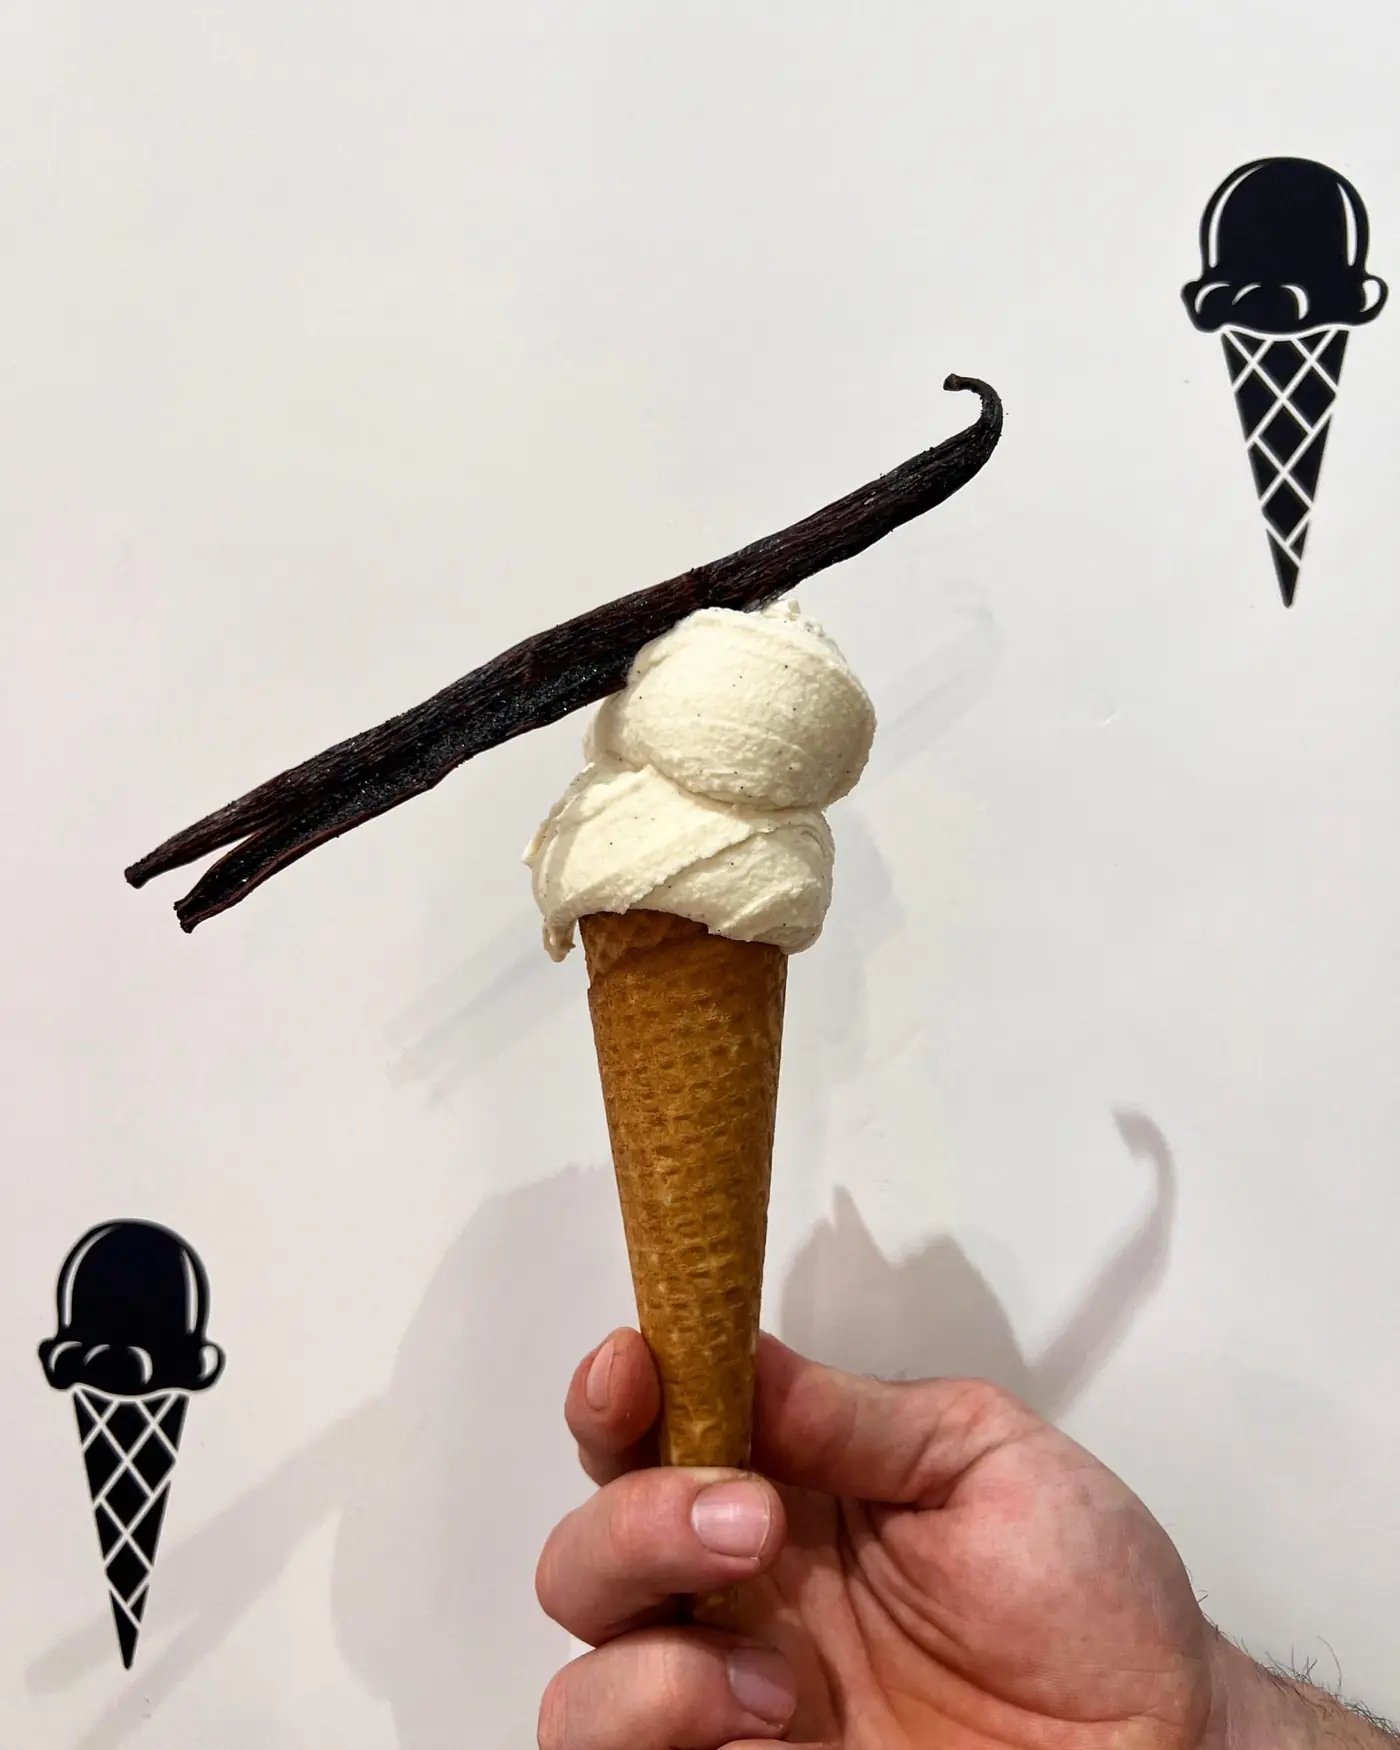
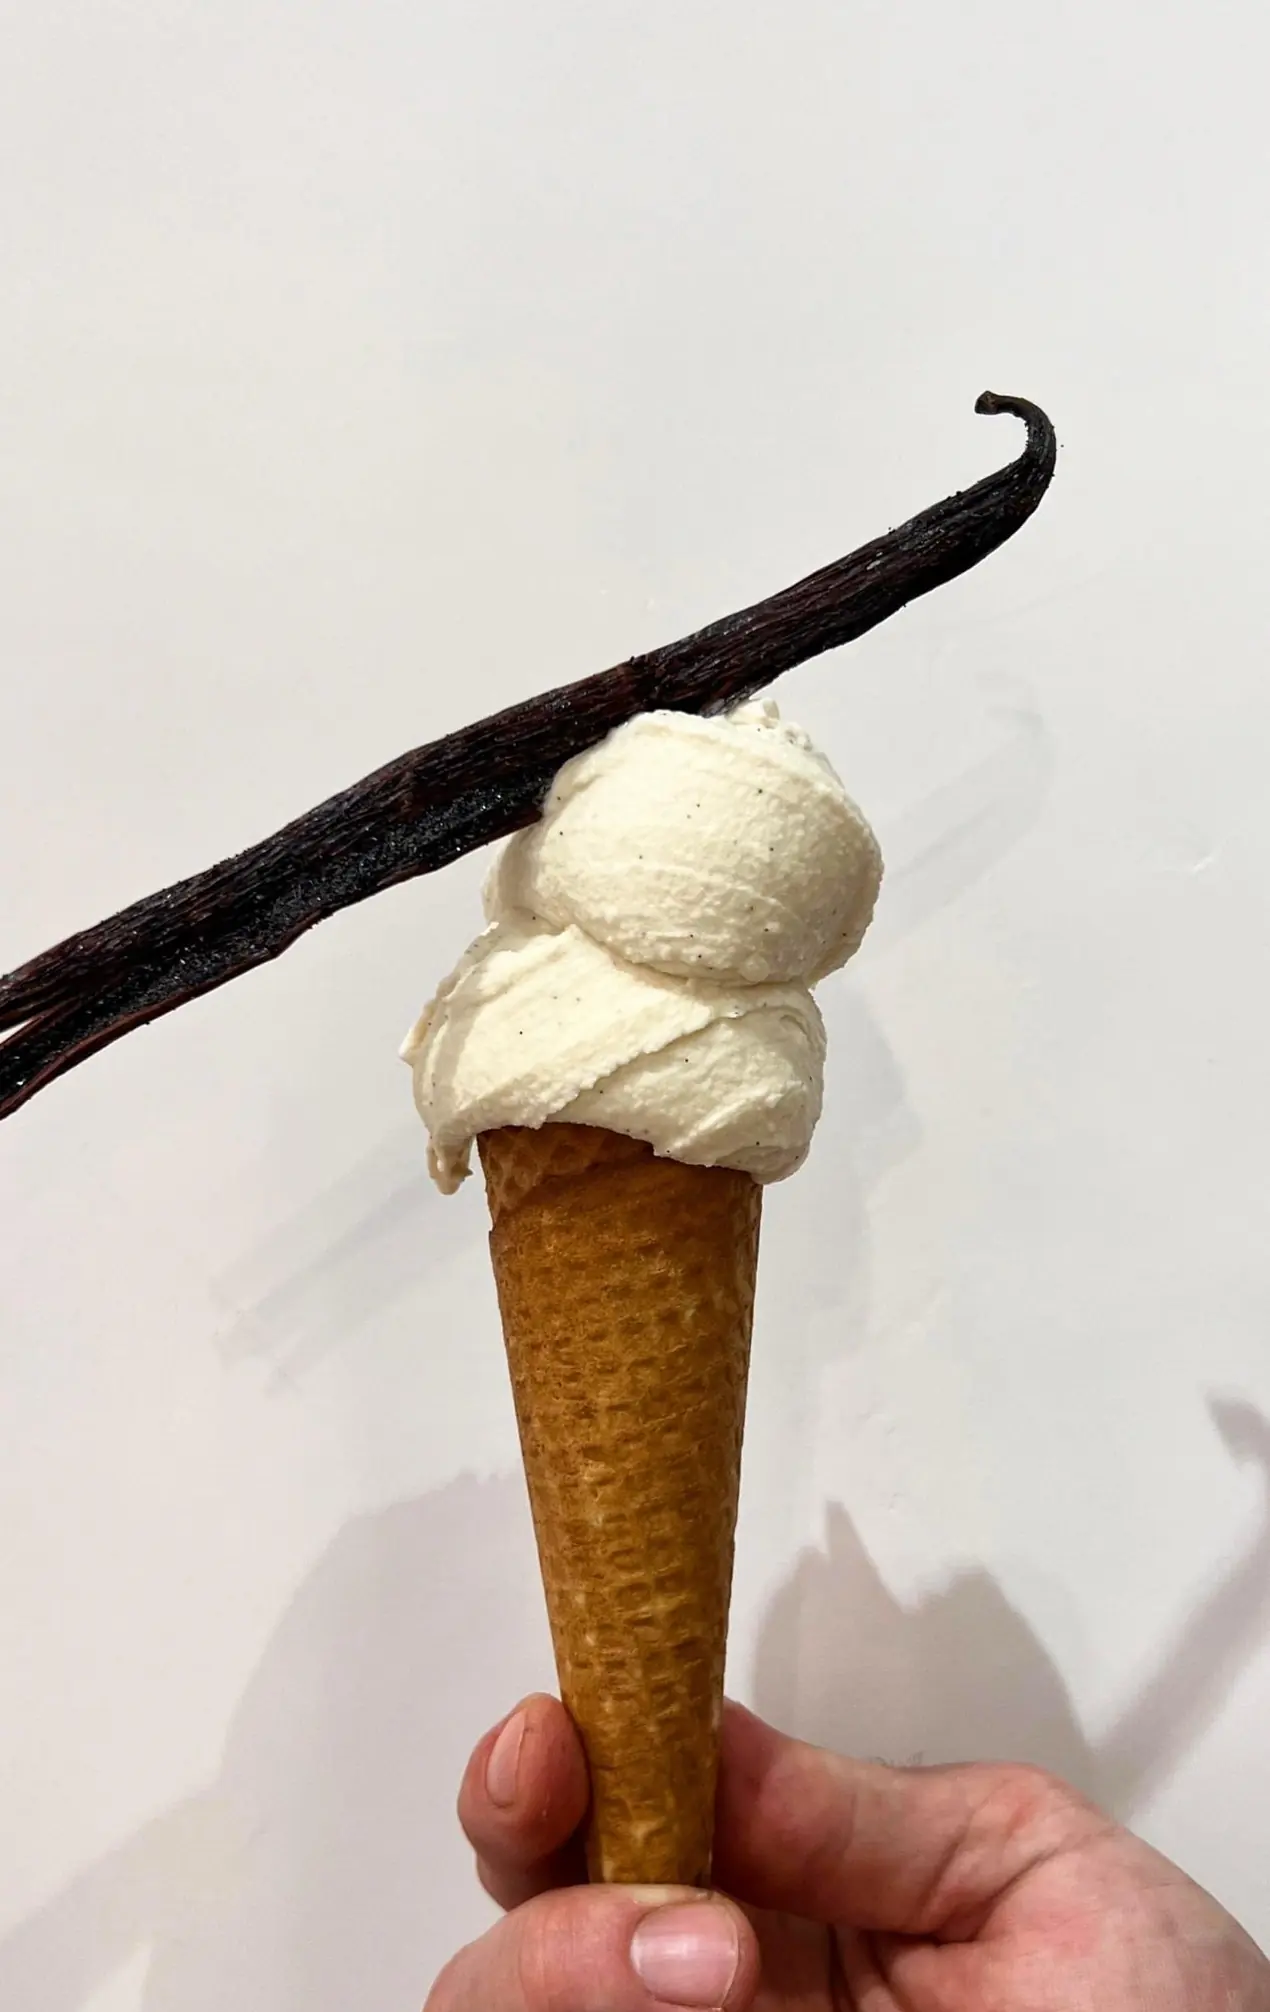
feat: tidy the contact rows, restyle the Bitcoin badge, crop the hero photo and use a white-coat portrait

diff --git a/sablegelato/index.html b/sablegelato/index.html
@@ -87,7 +87,7 @@ body.menu .sheet{clip-path:circle(150% at calc(100% - 38px) 62px); visibility:vi
 .dark .btn.ghost:hover{background:var(--cream); color:var(--ink)}
 
 .arch{position:relative; aspect-ratio:4/5.2; border-radius:999px 999px 6px 6px; overflow:hidden; background:var(--paper-2); isolation:isolate}
-.arch img{width:100%; height:118%; object-fit:cover; object-position:58% 38%; will-change:transform}
+.arch img{width:100%; height:118%; object-fit:cover; object-position:50% 35%; will-change:transform}
 .hero .arch img{animation:settle 2.4s cubic-bezier(.2,.7,.2,1) both}
 @keyframes settle{from{transform:scale(1.12)} to{transform:scale(1)}}
 .hero-art{position:relative; max-width:min(500px, calc((100vh - 170px) * .76)); justify-self:end; width:100%}
@@ -130,6 +130,7 @@ section{position:relative}
 .about .portrait{position:sticky; top:calc(var(--ribbon) + var(--head) + 24px)}
 .frame{overflow:hidden; border-radius:4px; aspect-ratio:3/4; background:var(--paper-2)}
 .frame img{width:100%; height:115%; object-fit:cover; will-change:transform}
+.frame img.top{object-position:50% 0}
 .caption{margin-top:12px; font:500 .7rem/1.4 var(--sans); letter-spacing:.14em; text-transform:uppercase; color:var(--muted)}
 .big-p{font:400 clamp(1.25rem,1.9vw,1.6rem)/1.55 var(--serif)}
 .stats{display:grid; grid-template-columns:repeat(3,1fr); border-top:1px solid var(--ink); margin:40px 0}
@@ -235,7 +236,8 @@ details.wide{margin-top:clamp(28px,4vw,44px)}
 .credit a,.credit-dark a{color:inherit}
 details.on-dark{border-color:rgba(245,240,230,.2); margin-top:8px}
 .logos{list-style:none; padding:0; margin:14px 0 0; display:grid; grid-template-columns:repeat(auto-fill,minmax(110px,1fr)); gap:10px}
-.logos li{background:var(--cream); border-radius:6px; height:74px; display:grid; place-items:center; padding:12px 16px}
+.logos li{background:var(--cream); border-radius:6px; height:74px; display:grid; place-items:center; padding:12px 16px; min-width:0}
+.logos li > *{min-width:0; max-width:100%}
 .logos li.inv{background:#2a2622}
 .logos li > a{display:grid; place-items:center; width:100%; height:100%}
 .logos li:has(a){transition:transform .35s, box-shadow .35s}
@@ -256,10 +258,6 @@ details.on-dark{border-color:rgba(245,240,230,.2); margin-top:8px}
 .press-logos img{max-height:56px}
 .coffee-rail{padding-bottom:clamp(40px,6vw,80px); margin-top:-1px}
 .coffee-rail .rail img{width:clamp(180px,20vw,260px); aspect-ratio:2/3; object-fit:cover; height:auto}
-.ig{display:inline-flex; align-items:center; gap:10px}
-.ig img{width:22px; height:22px; border:0}
-.btc img{height:92px; width:auto}
-.btc-foot{height:46px!important; width:auto; border-radius:6px}
 @media (max-width:760px){.org{grid-template-columns:repeat(3,1fr)} .duo{grid-template-columns:1fr 1fr} .masonry{columns:2; column-gap:8px} .masonry figure{margin-bottom:8px}}
 
 .visit .wrap.map-wrap{display:block; margin-top:clamp(48px,7vw,90px)}
@@ -318,14 +316,24 @@ details.on-dark{border-color:rgba(245,240,230,.2); margin-top:8px}
 .visit .wrap{display:grid; grid-template-columns:1.1fr .9fr; gap:clamp(32px,6vw,96px); align-items:center}
 .visit h2{font-size:clamp(3rem,9vw,7rem); margin-bottom:12px}
 .visit .sub{font:400 clamp(1.3rem,2vw,1.7rem)/1.2 var(--display); text-transform:uppercase; color:var(--gold-soft); margin-bottom:34px}
-.hours{width:100%; border-collapse:collapse; margin-bottom:30px; max-width:460px}
+.hours{width:100%; border-collapse:collapse; margin-bottom:34px; max-width:460px; border-top:1px solid rgba(245,240,230,.2)}
 .hours td{padding:12px 0; border-bottom:1px solid rgba(245,240,230,.2); font:500 .8rem/1 var(--sans); letter-spacing:.14em; text-transform:uppercase}
 .hours td:last-child{text-align:right}
-.info{display:grid; grid-template-columns:auto 1fr; gap:10px 24px; margin-bottom:32px; font-size:1.02rem}
-.info dt{font:500 .7rem/2.1 var(--sans); letter-spacing:.2em; text-transform:uppercase; color:rgba(245,240,230,.6)}
-.info dd{margin:0}
-.info a{text-decoration:none; border-bottom:1px solid rgba(245,240,230,.35)}
-.btc{margin-top:22px}
+.info{max-width:460px; margin-bottom:34px; border-top:1px solid rgba(245,240,230,.2)}
+.info .row{display:grid; grid-template-columns:118px 1fr 18px; align-items:center; gap:12px; padding:16px 0; border-bottom:1px solid rgba(245,240,230,.2); color:inherit; text-decoration:none}
+.info .k{font:500 .7rem/1 var(--sans); letter-spacing:.2em; text-transform:uppercase; color:rgba(245,240,230,.55)}
+.info .v{font-size:1.02rem; line-height:1.4}
+.info .v small{display:block; margin-top:4px; font-size:.86rem; color:rgba(245,240,230,.55)}
+.info .arr{width:18px; height:18px; opacity:.45; transition:transform .35s, opacity .35s}
+.info .link .v{transition:color .35s}
+.info .link:hover .v{color:var(--gold-soft)}
+.info .link:hover .arr{opacity:1; transform:translate(2px,-2px)}
+.info .ig{display:flex; align-items:center; gap:10px}
+.info .ig img{width:20px; height:20px}
+.btc-badge{display:inline-flex; align-items:center; gap:12px; padding:8px 20px 8px 8px; border-radius:99px; border:1px solid rgba(247,147,26,.45); background:linear-gradient(90deg,rgba(247,147,26,.16),rgba(247,147,26,.03)); font:500 .74rem/1 var(--sans); letter-spacing:.2em; text-transform:uppercase; color:var(--cream)}
+.btc-badge img{width:34px; height:34px; filter:drop-shadow(0 2px 8px rgba(247,147,26,.45))}
+.btc-badge.small{padding:5px 14px 5px 5px; gap:9px; font-size:.62rem}
+.btc-badge.small img{width:24px; height:24px}
 @media (max-width:899px){.visit .wrap{grid-template-columns:1fr} .visit .arch{max-width:420px}}
 
 footer{background:var(--dark); color:rgba(245,240,230,.6); padding:50px 0 60px; border-top:1px solid rgba(245,240,230,.12)}
@@ -377,7 +385,7 @@ footer a{text-decoration:none; border-bottom:1px solid rgba(245,240,230,.3)}
       </div>
     </div>
     <div class="hero-art" data-r style="--d:.2s">
-      <div class="arch"><img data-px="0.10" src="img/cone-700.webp" srcset="img/cone-700.webp 700w, img/cone-1400.webp 1400w" sizes="(max-width:899px) 90vw, 40vw" alt="A cone of Sablé gelato with a vanilla pod" width="700" height="875" fetchpriority="high"></div>
+      <div class="arch"><img data-px="0.10" src="img/cone-700.webp" srcset="img/cone-700.webp 700w, img/cone-1400.webp 1270w" sizes="(max-width:899px) 90vw, 40vw" alt="A cone of Sablé gelato with a vanilla pod" width="700" height="1108" fetchpriority="high"></div>
       <a class="seal" href="https://www.gamberorosso.it/ristoranti/scheda-negozio/sable-gelato/" target="_blank" rel="noopener" aria-label="Due Coni Gambero Rosso 2023, 2024, 2025, 2026">
         <svg class="ring" viewBox="0 0 132 132" aria-hidden="true"><defs><path id="circ" d="M66,66 m-52,0 a52,52 0 1,1 104,0 a52,52 0 1,1 -104,0"/></defs><text><textPath href="#circ" textLength="324" lengthAdjust="spacingAndGlyphs">Gambero Rosso · 2023 · 2024 · 2025 · 2026 ·</textPath></text></svg>
         <div class="c">Due<br>Coni</div>
@@ -414,8 +422,8 @@ footer a{text-decoration:none; border-bottom:1px solid rgba(245,240,230,.3)}
 <section class="sec about" id="about">
   <div class="wrap">
     <div class="portrait" data-r>
-      <div class="frame"><img data-px="0.08" src="img/alessandro-700.webp" alt="Alessandro Cesari in his laboratory" loading="lazy" width="700" height="1050"></div>
-      <div class="caption">Alessandro Cesari · Photo: Davide T.</div>
+      <div class="frame"><img class="top" data-px="0.06" src="img/alessandro-white.webp" alt="Alessandro Cesari in his chef's whites" loading="lazy" width="520" height="670"></div>
+      <div class="caption">Alessandro Cesari</div>
     </div>
     <div>
       <div class="label muted" data-r>Micro emotional gelateria</div>
@@ -538,6 +546,7 @@ footer a{text-decoration:none; border-bottom:1px solid rgba(245,240,230,.3)}
       <p class="muted" data-r style="max-width:30em;margin:0">I go to the mountains to collect my ingredients to be able to bring them back into my ice cream through infusions that can last up to 72 hours and extractions with fermentations, a unique ice cream that every day lives a new life.</p>
     </div>
     <div class="masonry" data-r>
+        <figure><img src="img/alessandro-700.webp" alt="Alessandro Cesari in his laboratory" loading="lazy" width="700" height="1050"></figure>
         <figure><img src="img/stir-700.webp" alt="Alessandro stirring in the laboratory" loading="lazy" width="700" height="1050"></figure>
         <figure><img src="img/milk-700.webp" alt="Milk poured into the batch freezer" loading="lazy" width="700" height="1050"></figure>
         <figure><img src="img/eggs-700.webp" alt="Fresh eggs from local farms" loading="lazy" width="700" height="1050"></figure>
@@ -737,16 +746,12 @@ footer a{text-decoration:none; border-bottom:1px solid rgba(245,240,230,.3)}
         <tr><td>Saturday</td><td>11:30 – 19:00</td></tr>
         <tr><td>Sunday</td><td>11:30 – 19:00</td></tr>
       </table>
-      <dl class="info" data-r>
-        <dt>Address</dt><dd>Via dei Mille 3a, 40121 Bologna, Italia<br><span class="muted">Winter closure is carried out</span></dd>
-        <dt>Contact</dt><dd><a href="mailto:sablegelato@gmail.com">sablegelato@gmail.com</a></dd>
-        <dt>Instagram</dt><dd><a class="ig" href="https://www.instagram.com/sable_gelato/" target="_blank" rel="noopener"><img src="img/logos/instagram.webp" alt="" loading="lazy" width="600" height="599">@sable_gelato</a></dd>
-      </dl>
-      <div class="ctas" data-r>
-        <a class="btn fill" href="https://www.google.com/maps/search/?api=1&amp;query=Sabl%C3%A9%20Gelato%20Via%20dei%20Mille%203a%20Bologna&amp;query_place_id=ChIJWyT990rVf0cRv8dIUiWKpGk" target="_blank" rel="noopener">
-          <svg viewBox="0 0 24 24" fill="none" stroke="currentColor" stroke-width="1.6" aria-hidden="true"><path d="M12 21s7-6.2 7-12a7 7 0 1 0-14 0c0 5.8 7 12 7 12z"/><circle cx="12" cy="9" r="2.5"/></svg>Directions</a>
+      <div class="info" data-r>
+        <div class="row"><span class="k">Address</span><span class="v">Via dei Mille 3a, 40121 Bologna, Italia<small>Winter closure is carried out</small></span></div>
+        <a class="row link" href="mailto:sablegelato@gmail.com"><span class="k">Contact</span><span class="v">sablegelato@gmail.com</span><svg class="arr" viewBox="0 0 24 24" fill="none" stroke="currentColor" stroke-width="1.5" aria-hidden="true"><path d="M7 17L17 7M9 7h8v8"/></svg></a>
+        <a class="row link" href="https://www.instagram.com/sable_gelato/" target="_blank" rel="noopener"><span class="k">Instagram</span><span class="v ig"><img src="img/logos/instagram.webp" alt="" loading="lazy" width="600" height="599">@sable_gelato</span><svg class="arr" viewBox="0 0 24 24" fill="none" stroke="currentColor" stroke-width="1.5" aria-hidden="true"><path d="M7 17L17 7M9 7h8v8"/></svg></a>
       </div>
-      <div class="btc" data-r><img src="img/logos/bitcoin-white.webp" alt="We accept Bitcoin" loading="lazy" width="225" height="209"></div>
+      <div class="btc-badge" data-r><img src="img/logos/bitcoin-coin.webp" alt="" loading="lazy" width="122" height="126"><span>We accept Bitcoin</span></div>
     </div>
     <div class="arch" data-r style="--d:.1s"><img data-px="0.08" src="img/shop-700.webp" srcset="img/shop-700.webp 700w, img/shop-1400.webp 1400w" sizes="(max-width:899px) 90vw, 40vw" alt="Alessandro at the Sablé Gelato counter" loading="lazy" width="700" height="933"></div>
   </div>
@@ -760,7 +765,7 @@ footer a{text-decoration:none; border-bottom:1px solid rgba(245,240,230,.3)}
   <div class="wrap">
     <img src="img/logo-white.png" alt="Sablé" width="520" height="354" loading="lazy">
     <div>Photos: Davide T. · © Sablé Gelato</div>
-    <img class="btc-foot" src="img/logos/bitcoin-black.webp" alt="We accept Bitcoin" loading="lazy" width="225" height="225">
+    <span class="btc-badge small"><img src="img/logos/bitcoin-coin.webp" alt="" loading="lazy" width="122" height="126"><span>We accept Bitcoin</span></span>
     <div>Demo preview by <a href="https://auratics.app">Auratics</a> · not the official website</div>
   </div>
 </footer>
